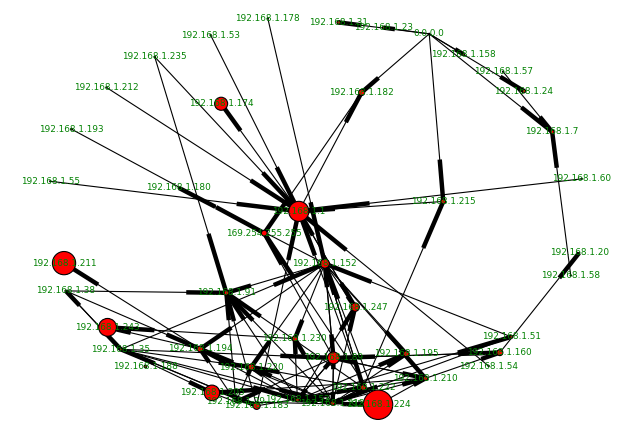
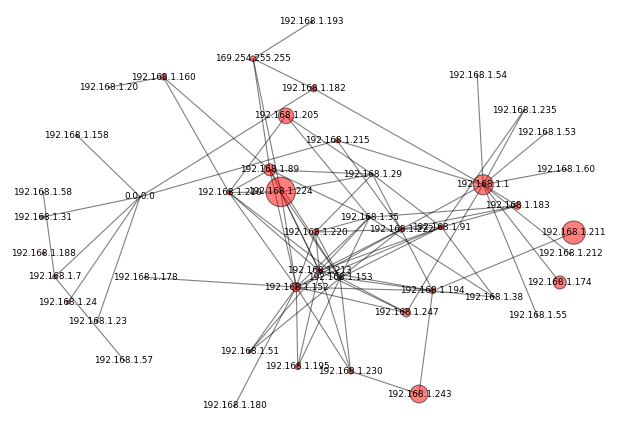
taringa datos

Changed region(s): [[0.0, 0.0303, 0.9759, 0.9697], [0.0305, 0.4848, 0.122, 0.5152], [0.61, 0.1212, 0.6404, 0.1515]]

diff --git a/entregable/tp1.py b/entregable/tp1.py
@@ -11,46 +11,46 @@ argv = sys.argv[1:]
 try:
 	opts, args = getopt.getopt(argv,"",["offline=","online="])
 except getopt.GetoptError:
-	print 'tp1.py --offline <input pcap file>'
-	print 'sudo tp1.py --online <output pcap file>'
-      	sys.exit(2)
+        print ('tp1.py --offline <input pcap file>')
+        print ('sudo tp1.py --online <output pcap file>')
+        sys.exit(2)
 
 if (len(opts) == 0):
-	print 'tp1.py --offline <input pcap file>'
-	print 'sudo tp1.py --online <output pcap file>'
-	sys.exit(2)
+        print ('tp1.py --offline <input pcap file>')
+        print ('sudo tp1.py --online <output pcap file>')
+        sys.exit(2)
 
 sniff_timeout = 10
 packages = None
 
 for opt, arg in opts:
-	if opt == '-h':
-       		print 'tp1.py --offline <input pcap file>'
-	 	print 'sudo tp1.py --online <output pcap file>'
-         	sys.exit()
-      	elif opt in ("--offline"):
-         	inputfile = arg
-         	packages = readPackagesOffline(inputfile)
-      	elif opt in ("--online"):
-	 	outputfile = arg
-	 	packages = readPackagesOnline(sniff_timeout,outputfile)
+        if opt == '-h':
+            print ('tp1.py --offline <input pcap file>')
+            print ('sudo tp1.py --online <output pcap file>')
+            sys.exit()
+        elif opt in ("--offline"):
+            inputfile = arg
+            packages = readPackagesOffline(inputfile)
+        elif opt in ("--online"):
+            outputfile = arg
+            packages = readPackagesOnline(sniff_timeout,outputfile)
 
 #Analisis fuente S
 fuente_s = calcularFuenteS(packages)
 
 contadores_s = fuente_s.value_counts()
-print "Cantidad de simbolos S"
-print contadores_s.iloc[:10], "\n"
+print ("Cantidad de simbolos S")
+print (contadores_s.iloc[:10], "\n")
 
 entropia_s = entropia_fuente(fuente_s)
-print "Entropia Fuente S = ", entropia_s, "\n"
+print ("Entropia Fuente S = ", entropia_s, "\n")
 
 entropia_max_s = entropia_maxima_fuente(fuente_s)
-print "Entropia maxima S = ", entropia_max_s, "\n"
+print ("Entropia maxima S = ", entropia_max_s, "\n")
 
 informacion_s = informacion_simbolos(fuente_s)
-print "Informacion simbolos S"
-print informacion_s, "\n"
+print ("Informacion simbolos S")
+print (informacion_s, "\n")
 
 titulo = "Comparacion entropias y informacion de simbolos de S"
 graficar_comparacion_simbolos_entropia(fuente_s, titulo)
@@ -59,24 +59,25 @@ graficar_comparacion_simbolos_entropia(fuente_s, titulo)
 fuente_s1, who_has_packages = calcularFuenteS1(packages)
 
 contadores_s1 = fuente_s1.value_counts()
-print "Cantidad de simbolos S1"
-print contadores_s1, "\n"
+
+print ("Cantidad de simbolos S1")
+print (contadores_s1, "\n")
 
 entropia_s1 = entropia_fuente(fuente_s1)
-print "Entropia Fuente S1 = ", entropia_s1, "\n"
+print ("Entropia Fuente S1 = ", entropia_s1, "\n")
 
 entropia_max_s1 = entropia_maxima_fuente(fuente_s1)
-print "Entropia maxima S1 = ", entropia_max_s1, "\n"
+print ("Entropia maxima S1 = ", entropia_max_s1, "\n")
 
 informacion_s1 = informacion_simbolos(fuente_s1)
-print "Informacion simbolos S1"
-print informacion_s1, "\n"
+print ("Informacion simbolos S1")
+print (informacion_s1, "\n")
 
 titulo = "Comparacion entropias y informacion de simbolos de S1"
 graficar_comparacion_simbolos_entropia_agrupados(fuente_s1, titulo)
-print "Nodos distinguidos"
-print nodos_distinguidos(fuente_s1), "\n"
+print ("Nodos distinguidos")
+print (nodos_distinguidos(fuente_s1), "\n")
 
 A = crear_grafo_cmin(packages)
-print "Cantidad de Nodos: ", A.number_of_nodes()
-print "Cantidad de Enlaces: ", A.number_of_edges()
+print ("Cantidad de Nodos: ", A.number_of_nodes())
+print ("Cantidad de Enlaces: ", A.number_of_edges())

diff --git a/informe/red_taringa.tex b/informe/red_taringa.tex
@@ -1,0 +1,47 @@
+\section{Red oficina}
+
+Para este experimento se tomo una captura de 30 minutos de la red Wi-Fi la oficina de taringa.
+La oficina al momento de la captura contaba con unas 20 personas conectadas a la red.
+En esta captura se filtró previamente los paquetes ARP antes de ser procesados para el analisis,
+por lo tanto los resultados son un poco distintos.
+
+\begin{figure}[h]
+  \centering
+    \includegraphics[width=0.45\textwidth]{grafico1-red-taringa.png}
+  \caption{Entropia de la fuente}
+  \label{}
+\end{figure}
+Como se puede ver en el gráfico, la entropía llega a ser casi máxima (0,999). 
+Esto es debido a que se capturó casi la misma cantida de paquetes UNICAST como de BROADCAST
+por lo tanto un símbolo UNICAST proporciona la misma información que un símbolo BROADCAST 
+
+\begin{figure}[h]
+  \centering
+    \includegraphics[width=0.45\textwidth]{grafico2-red-taringa.png}
+  \caption{Entropia de la fuente}
+  \label{}
+\end{figure}
+
+    \begin{table}[ht]\begin{center}
+      \begin{tabular}{|c|c|}
+      \hline
+      \textbf{Nodo} & \textbf{Informacion} \\ \hline
+      \texttt{192.168.1.224 }& 1.987991 \\ \hline
+      \texttt{192.168.1.211 }& 2.666566 \\ \hline
+      \texttt{192.168.1.1}& 3.089686 \\ \hline
+      \texttt{192.168.1.243}& 3.436136 \\ \hline
+      \end{tabular}
+      \caption{Nodos destacados}
+      \label{Nodos-destacados}
+    \end{center}\end{table}
+
+Lo mas probable es que el nodo 192.168.1.1 sea el Default Gateway por la cantidad de información que posee
+y además por intuición en su dirección ip, 
+Es probable que los demás nodos sean servidores que servicios utilizados por procesos en algún otro host.
+
+\begin{figure}[h]
+  \centering
+    \includegraphics[width=0.45\textwidth]{grafico3-red-taringa.png}
+  \caption{Grafo de la red}
+  \label{}
+\end{figure}

diff --git a/informe/informe.tex b/informe/informe.tex
@@ -31,11 +31,13 @@
 
 % format author this way for journal articles.
 \author[SHORT NAMES]{%
-      Claudio Gauna \small{LU:XXX/XX},
-    \and
       Christian Bonomi \small{LU:727/02},
     \and
+      Claudio Gauna \small{LU:XXX/XX},
+    \and
       Marcelo Ferranti \small{LU:744/08}
+    \and  
+     Andrés Gutter \small{LU:007/08},
   }
 
 % format author this way for conference proceeding

diff --git a/informe/red_laboratorio.tex b/informe/red_laboratorio.tex
@@ -1,4 +1,4 @@
-\section{Red doméstica}
+\section{Red laboratorio}
 
 Para este experimento se tomo una captura de 30 minutos de la red Wi-Fi de los labos de la facultad.
 
